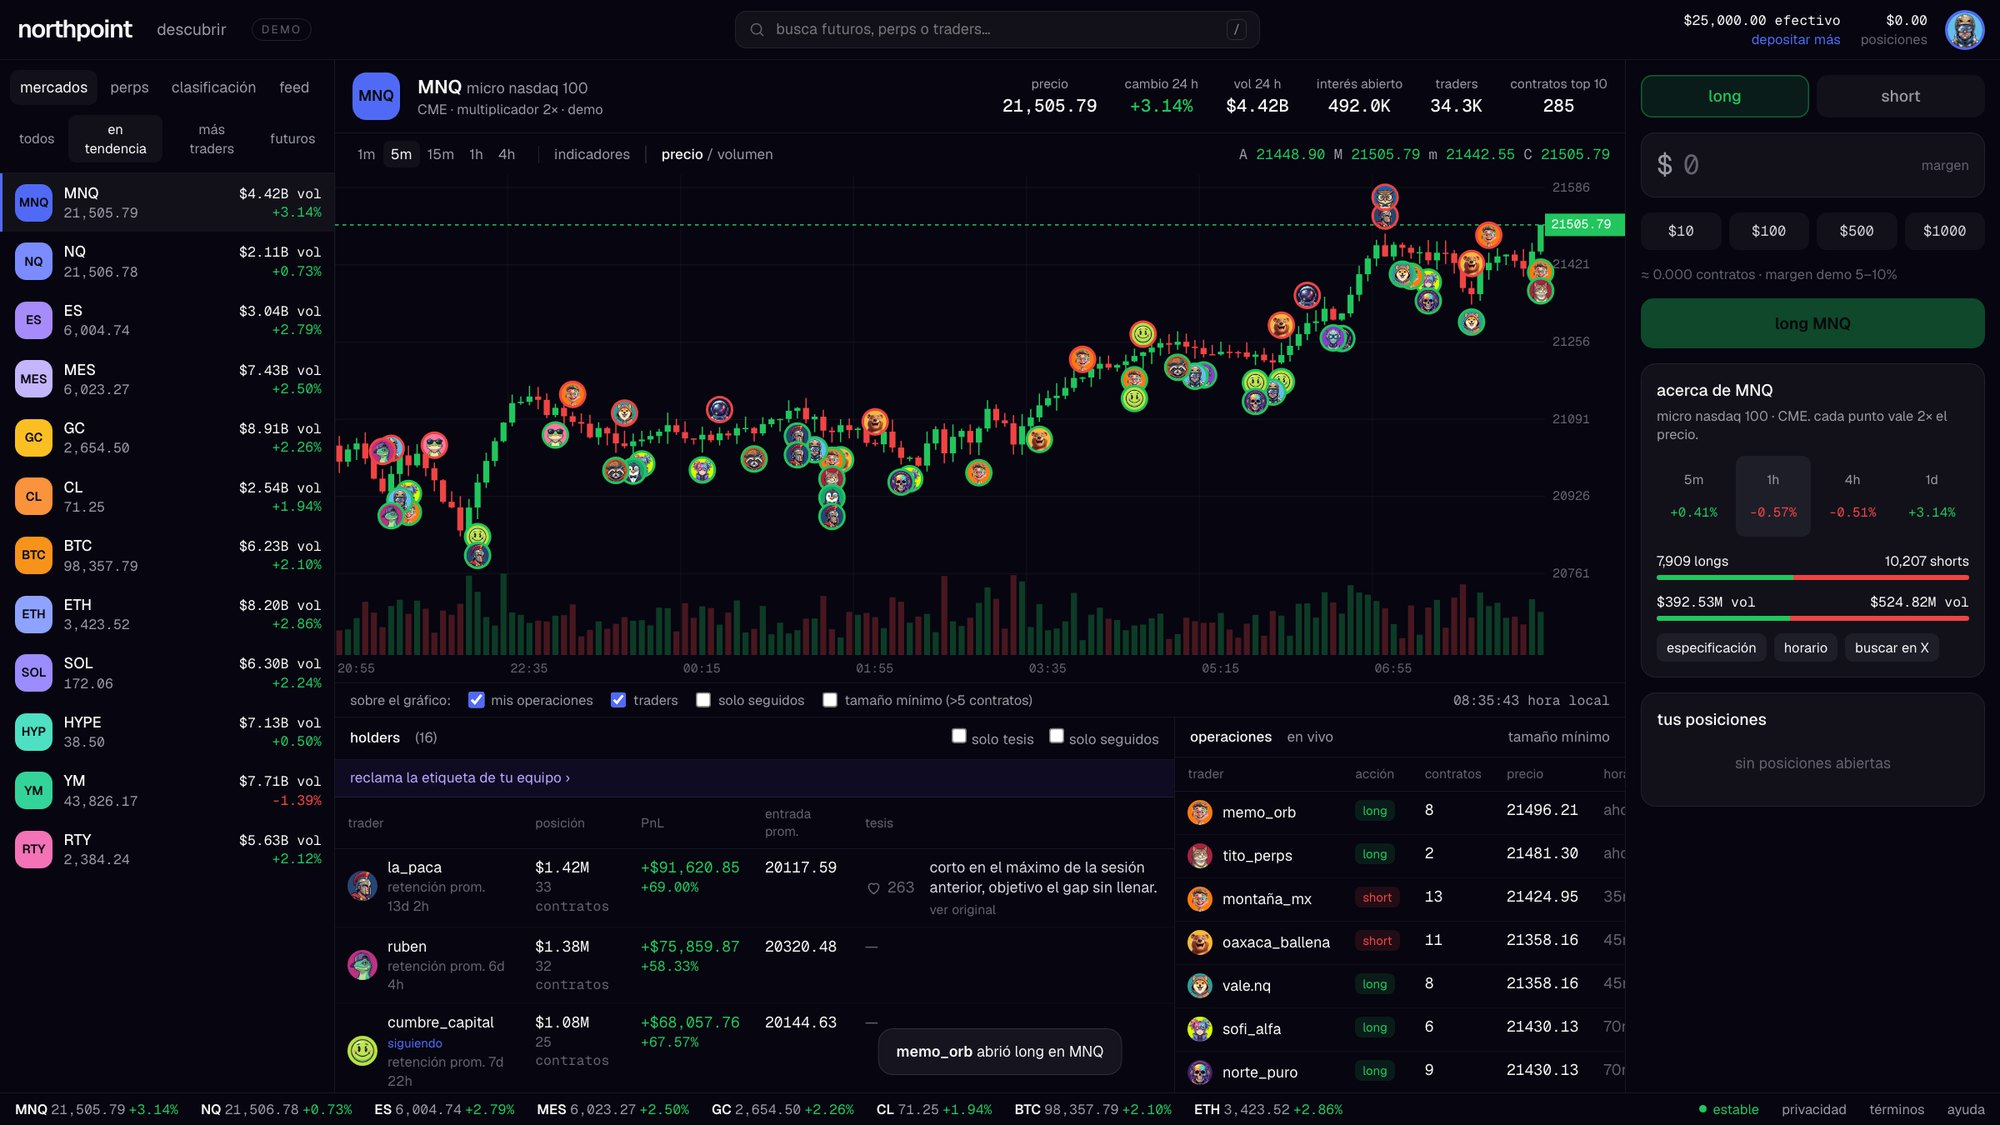
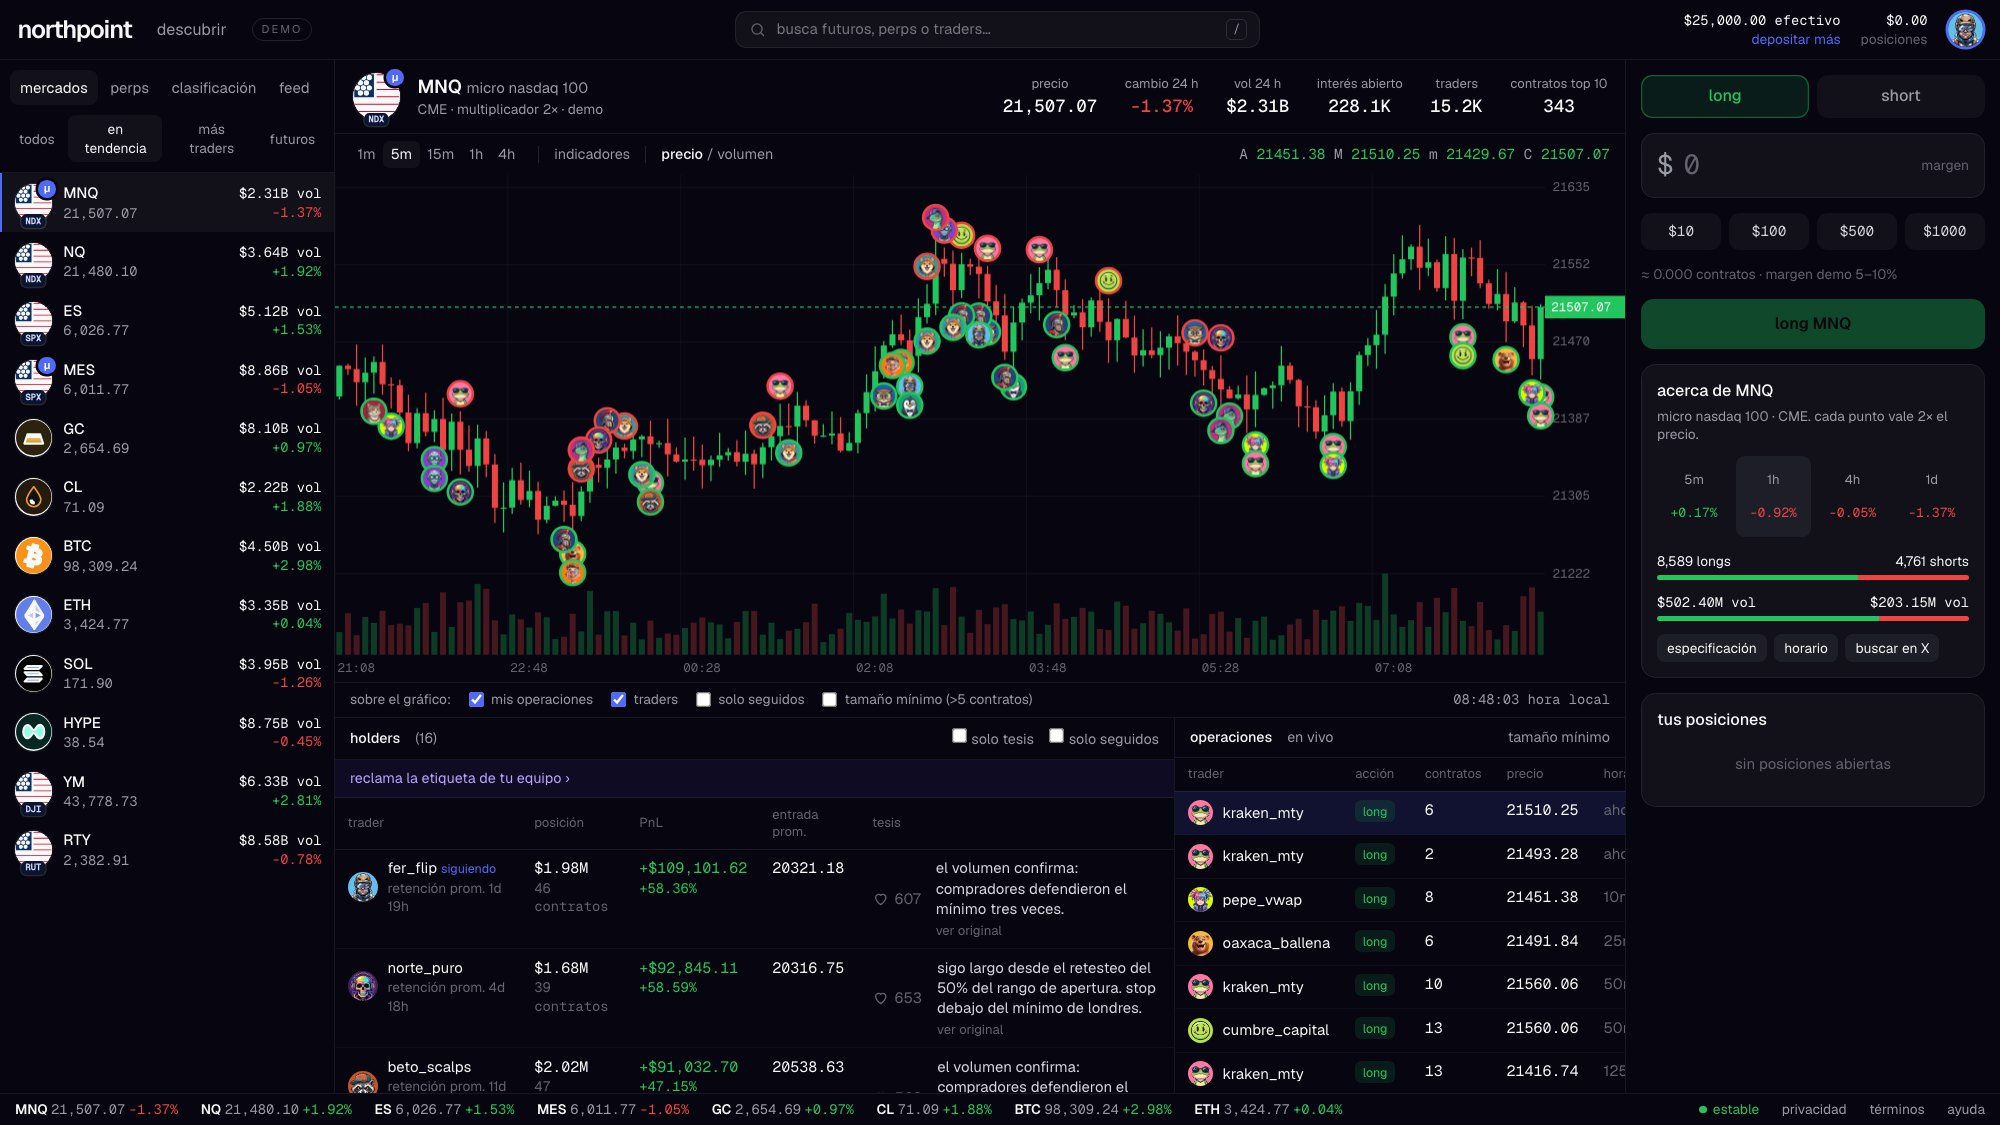
Portada con link a northpointcapital.io/trading e íconos reales de mercados

diff --git a/app.html b/app.html
@@ -42,7 +42,10 @@ svg{width:14px;height:14px;fill:none;stroke:currentColor;stroke-width:1.8;stroke
 .it{display:flex;align-items:center;gap:9px;padding:8px 10px;cursor:pointer;border-left:2px solid transparent}
 .it:hover{background:rgba(203,208,235,.03)}
 .it.on{background:var(--card);border-left-color:var(--acc)}
-.ico{width:30px;height:30px;border-radius:9px;display:grid;place-items:center;font-weight:600;font-size:10px;color:#0a0a12;flex:none}
+.ico{position:relative;flex:none;display:block;border-radius:50%}
+.ico svg{display:block;width:100%;height:100%;border-radius:50%;box-shadow:0 0 0 1px rgba(255,255,255,.08)}
+.ico .mi{position:absolute;right:-3px;top:-3px;width:14px;height:14px;border-radius:50%;background:#516af6;color:#fff;font-size:9px;display:grid;place-items:center;box-shadow:0 0 0 2px var(--bg)}
+.ico .tag{position:absolute;left:50%;bottom:-5px;transform:translateX(-50%);font:600 7px/1 'Geist Mono',monospace;background:#0b1530;color:#cfd8ff;padding:2px 3px;border-radius:4px;box-shadow:0 0 0 1px rgba(255,255,255,.15)}
 .it .g{flex:1;min-width:0}
 .it .r{text-align:right}
 .it .n{font-weight:500}
@@ -50,7 +53,7 @@ svg{width:14px;height:14px;fill:none;stroke:currentColor;stroke-width:1.8;stroke
 
 .center{display:grid;grid-template-rows:auto 1fr 300px;min-width:0;min-height:0}
 .ihead{display:flex;align-items:center;gap:14px;padding:10px 14px;border-bottom:1px solid var(--line)}
-.ihead .big{width:38px;height:38px;border-radius:11px;font-size:12px}
+
 .ihead h1{font-size:15px;font-weight:600}
 .stats{margin-left:auto;display:flex;gap:22px;text-align:center}
 .stats .k{color:var(--mut);font-size:10.5px}
@@ -226,13 +229,27 @@ function state(ins){
 }
 const pnl=(h,ins)=>(ins.p-h.e)*h.q*ins.mult;
 
+
+// ---------- íconos de mercados ----------
+const FLAG=id=>`<defs><clipPath id="c${id}"><circle cx="16" cy="16" r="16"/></clipPath></defs><g clip-path="url(#c${id})"><rect width="32" height="32" fill="#fff"/>${[0,2,4,6,8,10,12].map(k=>`<rect y="${k*2.47}" width="32" height="2.47" fill="#c8102e"/>`).join('')}<rect width="15" height="17.3" fill="#0a3161"/>${[[3,3],[7,3],[11,3],[5,6.5],[9,6.5],[3,10],[7,10],[11,10],[5,13.5],[9,13.5]].map(([x,y])=>`<circle cx="${x}" cy="${y}" r=".9" fill="#fff"/>`).join('')}</g>`;
+const ICONS={
+ BTC:()=>`<circle cx="16" cy="16" r="16" fill="#f7931a"/><path fill="#fff" d="M22.6 14.1c.3-2.1-1.3-3.2-3.4-3.9l.7-2.8-1.7-.4-.7 2.7-1.4-.3.7-2.7-1.7-.4-.7 2.8-1.1-.3-2.4-.6-.4 1.8s1.3.3 1.2.3c.7.2.8.6.8 1l-.8 3.2.2.1-.2-.1-1.1 4.5c-.1.2-.3.6-.8.4 0 0-1.2-.3-1.2-.3l-.8 1.9 2.2.6 1.2.3-.7 2.8 1.7.4.7-2.8 1.4.4-.7 2.8 1.7.4.7-2.8c2.9.6 5.1.3 6-2.3.7-2.1 0-3.3-1.5-4.1 1.1-.3 2-1 2.2-2.6zm-3.9 5.4c-.5 2.1-4 1-5.2.7l.9-3.7c1.2.3 4.8.9 4.3 3zm.5-5.5c-.5 1.9-3.4.9-4.3.7l.8-3.3c1 .2 4 .7 3.5 2.6z"/>`,
+ ETH:()=>`<circle cx="16" cy="16" r="16" fill="#627eea"/><g fill="#fff"><path fill-opacity=".6" d="M16.5 4v8.9l7.5 3.3z"/><path d="M16.5 4L9 16.2l7.5-3.3z"/><path fill-opacity=".6" d="M16.5 22v6l7.5-10.4z"/><path d="M16.5 28v-6L9 17.6z"/><path fill-opacity=".2" d="M16.5 20.6l7.5-4.4-7.5-3.3z"/><path fill-opacity=".6" d="M9 16.2l7.5 4.4v-7.7z"/></g>`,
+ SOL:()=>`<defs><linearGradient id="gs" x1="0" y1="1" x2="1" y2="0"><stop offset="0" stop-color="#9945ff"/><stop offset="1" stop-color="#14f195"/></linearGradient></defs><circle cx="16" cy="16" r="16" fill="#000"/><g fill="url(#gs)"><path d="M10.5 20.2h12.3l-2.3 2.4H8.2z"/><path d="M10.5 9.4h12.3l-2.3 2.4H8.2z" transform="translate(0 0)"/><path d="M8.2 14.8h12.3l2.3 2.4H10.5z"/></g>`,
+ HYPE:()=>`<circle cx="16" cy="16" r="16" fill="#072723"/><path fill="#97fce4" d="M25 15.9c0 4.2-2.4 6.6-4.9 5.4-2-1-2.4-3.9-4.1-4-1.7-.1-2.2 3.4-4.4 4.1C9.3 22.1 7 19.5 7 15.9s2.3-6.2 4.6-5.5c2.2.7 2.7 4.2 4.4 4.1 1.7-.1 2.1-3 4.1-4 2.5-1.2 4.9 1.2 4.9 5.4z"/>`,
+ GC:()=>`<defs><linearGradient id="gg" x1="0" y1="0" x2="0" y2="1"><stop offset="0" stop-color="#ffe08a"/><stop offset="1" stop-color="#c8901c"/></linearGradient></defs><circle cx="16" cy="16" r="16" fill="#2b2210"/><path fill="url(#gg)" d="M8 21l2.6-8h10.8L24 21z"/><path fill="#fff3c4" fill-opacity=".55" d="M11.3 14h9.4l.5 1.4h-10.4z"/>`,
+ CL:()=>`<circle cx="16" cy="16" r="16" fill="#241a10"/><path fill="#111" stroke="#f59e0b" stroke-width="1.4" d="M16 7.5c3 4.2 6 7.5 6 11a6 6 0 01-12 0c0-3.5 3-6.8 6-11z"/><path fill="#f59e0b" fill-opacity=".8" d="M13.4 19.2a2.6 2.6 0 002.6 2.6v-1.3a1.3 1.3 0 01-1.3-1.3z"/>`,
+};
+let _icoN=0;
+function icon(ins,px){const id=++_icoN,s=ins.s,body=ICONS[s]?ICONS[s]():FLAG(id),micro=/^M(NQ|ES)$/.test(s);
+ return `<span class="ico" style="width:${px}px;height:${px}px"><svg viewBox="0 0 32 32" width="${px}" height="${px}">${body}</svg>${micro?'<b class="mi">µ</b>':''}${!ICONS[s]?`<b class="tag">${{NQ:'NDX',MNQ:'NDX',ES:'SPX',MES:'SPX',YM:'DJI',RTY:'RUT'}[s]||''}</b>`:''}</span>`}
 // ---------- lista ----------
-function list(){$('#list').innerHTML=INS.map(i=>{const ch=(i.p/i.o-1)*100;return`<div class="it ${i===cur?'on':''}" data-s="${i.s}"><div class="ico" style="background:${i.c}">${i.s.slice(0,3)}</div><div class="g"><div class="n">${i.s}</div><div class="sm m mut">${i.p<100?i.p.toFixed(2):f2(i.p)}</div></div><div class="r"><div class="sm m">${sh(i.vol)} vol</div><div class="sm m ${ch>=0?'up':'dn'}">${pc(ch)}</div></div></div>`}).join('')}
+function list(){$('#list').innerHTML=INS.map(i=>{const ch=(i.p/i.o-1)*100;return`<div class="it ${i===cur?'on':''}" data-s="${i.s}">${icon(i,30)}<div class="g"><div class="n">${i.s}</div><div class="sm m mut">${i.p<100?i.p.toFixed(2):f2(i.p)}</div></div><div class="r"><div class="sm m">${sh(i.vol)} vol</div><div class="sm m ${ch>=0?'up':'dn'}">${pc(ch)}</div></div></div>`}).join('')}
 
 // ---------- encabezado ----------
 function head(){const i=cur,st=state(i),ch=(i.p/i.o-1)*100;
  const top10=st.hold.slice(0,10).reduce((a,h)=>a+h.q,0);
- $('#ihead').innerHTML=`<div class="ico big" style="background:${i.c}">${i.s.slice(0,3)}</div><div><h1>${i.s} <span class="mut" style="font-weight:400;font-size:12px">${i.n}</span></h1><div class="mut sm">${i.ex} · multiplicador ${i.mult}× · demo</div></div>
+ $('#ihead').innerHTML=`${icon(i,38)}<div><h1>${i.s} <span class="mut" style="font-weight:400;font-size:12px">${i.n}</span></h1><div class="mut sm">${i.ex} · multiplicador ${i.mult}× · demo</div></div>
  <div class="stats"><div><div class="k">precio</div><div class="v m">${i.p<100?i.p.toFixed(2):f2(i.p)}</div></div><div><div class="k">cambio 24 h</div><div class="v m ${ch>=0?'up':'dn'}">${pc(ch)}</div></div><div><div class="k">vol 24 h</div><div class="v m">${sh(i.vol)}</div></div><div><div class="k">interés abierto</div><div class="v m">${(i.oi/1e3).toFixed(1)}K</div></div><div><div class="k">traders</div><div class="v m">${(i.traders/1e3).toFixed(1)}K</div></div><div><div class="k">contratos top 10</div><div class="v m">${top10}</div></div></div>`;
 }
 

diff --git a/index.html b/index.html
@@ -51,6 +51,9 @@ nav .wrap{display:flex;align-items:center;height:68px;gap:34px;max-width:1360px}
 .word{font-size:clamp(56px,8.6vw,124px);font-weight:600;letter-spacing:-.06em;line-height:.9;
   background:linear-gradient(180deg,#fff 20%,#c9cffc 100%);-webkit-background-clip:text;background-clip:text;color:transparent;margin-bottom:12px}
 .hero h1{font-size:clamp(26px,3.2vw,40px);font-weight:500;letter-spacing:-.02em;line-height:1.1}
+.hero h1 .url{color:#fff;border-bottom:1px solid rgba(201,207,252,.35);padding-bottom:2px;transition:.2s}
+.hero h1 .url span{color:#aab4ff}
+.hero h1 .url:hover{border-color:#aab4ff}
 .hero p{color:#b7b9c6;font-size:16px;margin:10px 0 22px}
 .cta{display:flex;gap:12px;justify-content:center;flex-wrap:wrap}
 .orbit-x{position:absolute;bottom:-40px;left:50%;transform:translateX(-50%);width:min(560px,90vw);z-index:1;animation:float 7s ease-in-out infinite}
@@ -143,7 +146,7 @@ footer{padding:70px 0 40px;border-top:1px solid var(--line)}
     <div class="hero-in">
     <div class="kick">sigue la estrella del norte</div>
     <div class="word">northpoint</div>
-    <h1>en un mar de ruido, encuentra tu norte.</h1>
+    <h1><a class="url" href="https://northpointcapital.io/trading/">northpointcapital.io<span>/trading</span></a></h1>
     <p>ve en vivo quién lleva el rumbo correcto y síguelo en segundos.</p>
     <div class="cta"><a class="btn pri" href="app.html">empezar a operar</a><a class="btn dk" href="#">descargar app</a></div>
   </div>
@@ -191,7 +194,7 @@ footer{padding:70px 0 40px;border-top:1px solid var(--line)}
 
 <footer><div class="wrap">
   <div class="fgrid">
-    <div><div class="logo" style="margin-bottom:10px"><svg class="star" viewBox="0 0 24 24"><path d="M12 0l2.2 9.8L24 12l-9.8 2.2L12 24l-2.2-9.8L0 12l9.8-2.2z"/></svg>northpoint</div><p style="color:var(--mut);font-size:14px;max-width:220px">en un mar de ruido, encuentra tu norte.</p></div>
+    <div><div class="logo" style="margin-bottom:10px"><svg class="star" viewBox="0 0 24 24"><path d="M12 0l2.2 9.8L24 12l-9.8 2.2L12 24l-2.2-9.8L0 12l9.8-2.2z"/></svg>northpoint</div><p style="color:var(--mut);font-size:14px;max-width:220px"><a href="https://northpointcapital.io/trading/">northpointcapital.io/trading</a></p></div>
     <div><h4>producto</h4><a href="#">futuros</a><a href="#">trading social</a><a href="#">clasificación</a></div>
     <div><h4>mercados</h4><a href="#">micro nasdaq</a><a href="#">s&amp;p 500</a><a href="#">bitcoin</a><a href="#">solana</a></div>
     <div><h4>aprende</h4><a href="#">academia</a><a href="#">blog</a><a href="#">centro de ayuda</a></div>
